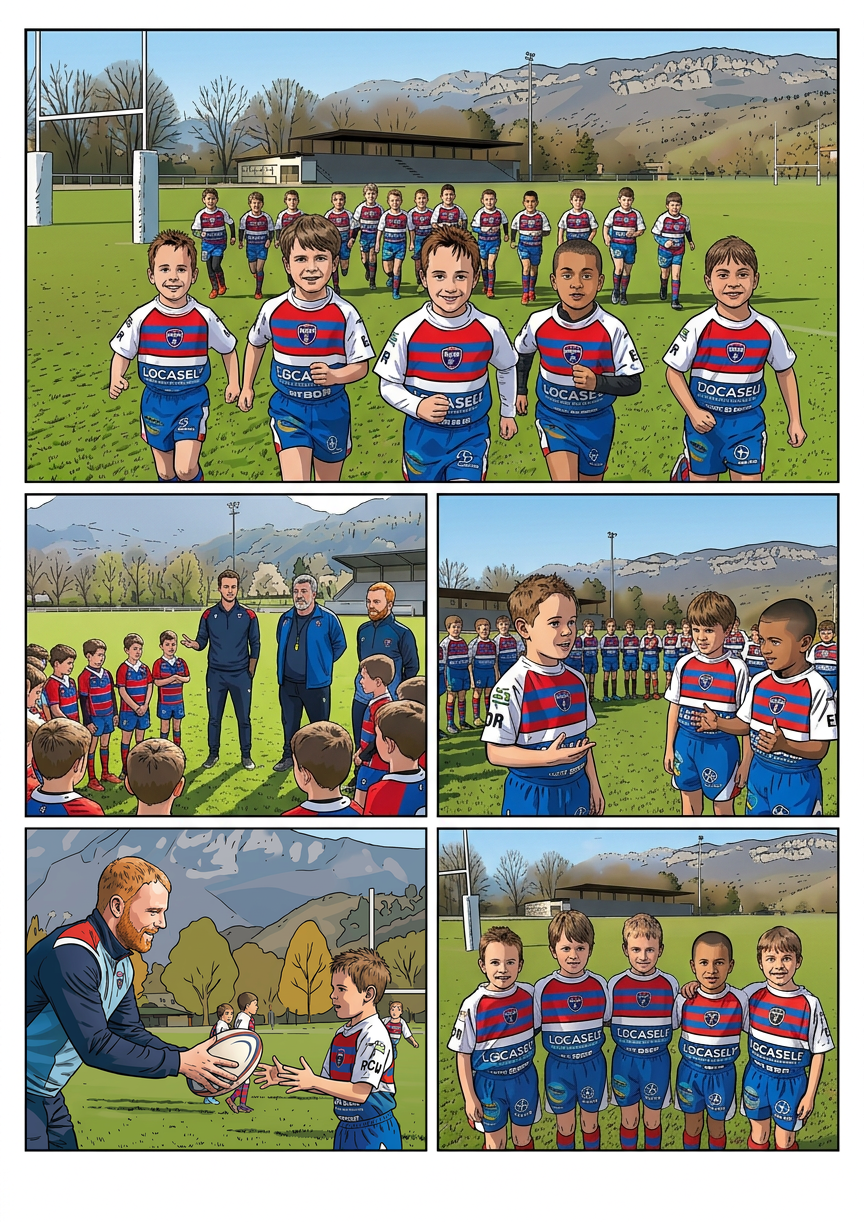
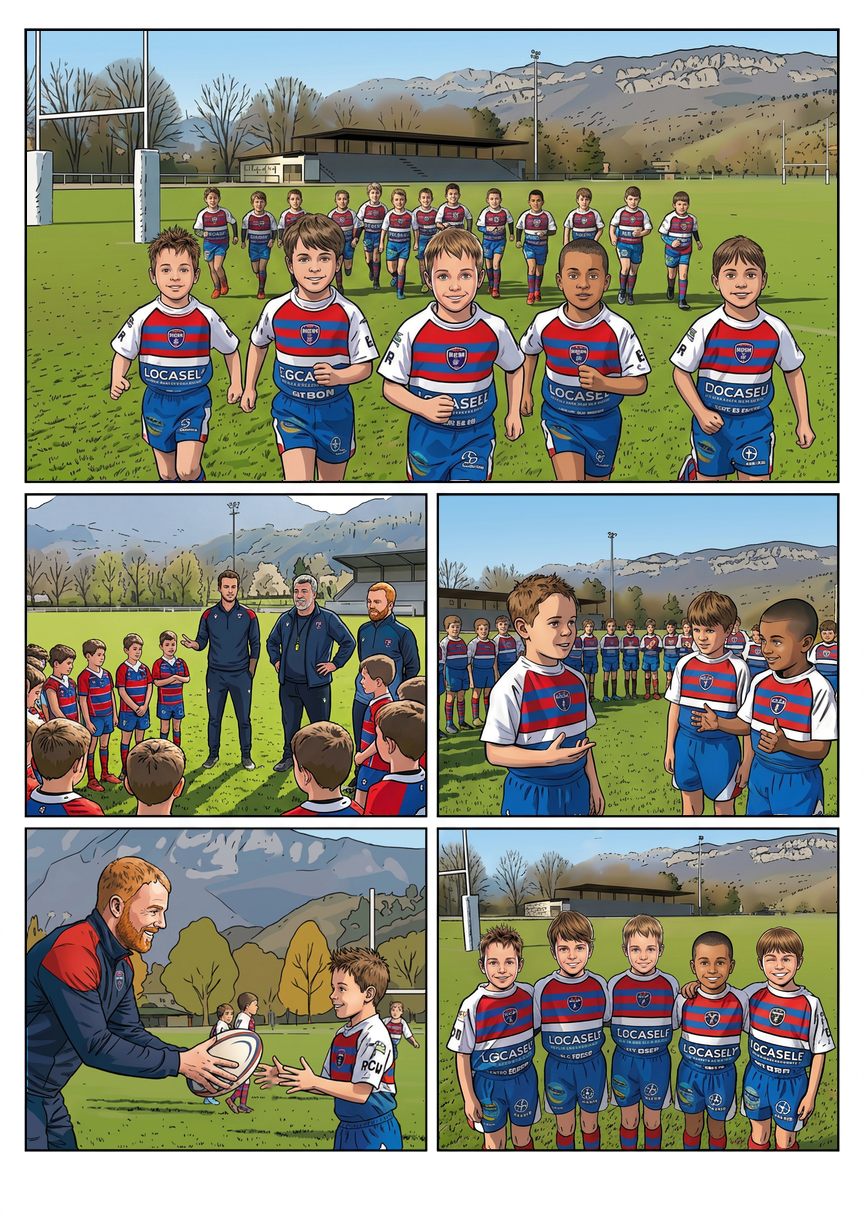
Reprendre les cinq cases printanières de la planche 22

diff --git a/Planches-dessin/validation/REVUE-COUVERTURE.md b/Planches-dessin/validation/REVUE-COUVERTURE.md
@@ -21,13 +21,13 @@ Les huit recadrages exacts sont dans `revue-couverture/<Prénom>-couverture.png`
 |---|---:|
 | Planches vues en ensemble | 30 |
 | Vignettes réellement inventoriées | 153 |
-| Premières reprises intégrées, encore à relire | 110 |
+| Premières reprises intégrées, encore à relire | 115 |
 | Corrections seulement partielles, à poursuivre | 0 |
 | Contrôles sans retouche, encore à relire | 1 |
-| Autres vignettes restant à contrôler individuellement | 42 |
+| Autres vignettes restant à contrôler individuellement | 37 |
 | Validations définitives de style et ressemblance | **0** |
 
-Les 110 vignettes ayant reçu une intervention ne sont pas 110 vignettes définitivement conformes. Le reste de la revue demandée n’est pas terminé. Le manifeste `REVUE-COUVERTURE.json` conserve une entrée et un état explicite pour chacune des 153 vignettes.
+Les 115 vignettes ayant reçu une intervention ne sont pas 115 vignettes définitivement conformes. Le reste de la revue demandée n’est pas terminé. Le manifeste `REVUE-COUVERTURE.json` conserve une entrée et un état explicite pour chacune des 153 vignettes.
 
 ## Première livraison : 26/3 et 26/6
 
@@ -428,6 +428,26 @@ Preuves : `revue-couverture/lot-y/21-AVANT-APRES.jpg` et cinq masques des intér
 **Réserves de relecture transversale :** ressemblance et âge sous les bonnets, silhouettes des cinq modèles dans les plans moyens, cohérence des bandes de maillot et des sponsors/écussons aux petites lettres variables ; anatomie des deux prises de relevage (quatre mains), des poignées de main et du bras de Julien occulté derrière Flavien ; finesse du fondu lumineux mental par rapport à l'encrage des autres cases. La buée est atmosphérique, pas un emplacement de dialogue. Les inscriptions internes aux maillots restent un chantier graphique d'harmonisation, pas une validation du lettrage généré.
 
 **Bilan courant : 110 premières reprises, 0 correction partielle, 1 contrôle sans retouche, 42 vignettes encore à examiner individuellement ; 0 validation définitive sur 153. Prochaine planche : 22.** Aucun mot de pensée, bulle, dialogue, onomatopée ou encadré ajouté ; la dernière phase de textes reste différée jusqu'à la validation graphique individuelle et transversale complète.
+
+## Vingt-quatrième livraison : les cinq cases de la planche 22
+
+Passage au soleil de mars à La Motte-Servolex (« Finis les bonnets et les gants : place à la vitesse ! ») : contrôle des cinq vignettes avec la couverture pour unique référence d'identité et de style, en appui sur le scénario et la planche réaliste.
+
+**22/1 :** Bandeau panoramique de mars à La Motte-Servolex : reprise des cinq garçons au premier plan (Léon, Lyssandro, Ayden, Nolann au teint mat, Milo) et suppression des sous-pulls d'hiver à manches longues (blanc sur Ayden, noir sur Nolann) ainsi que du legging noir du coureur d'arrière-plan à gauche et des manches longues résiduelles de plusieurs coureurs d'arrière-plan, conformément au retour du printemps sans bonnets ni gants.
+
+**22/2 :** Causerie au centre du terrain : reprise de Flavien (brun, barbe légère, survêtement marine à épaules rouges), Julien (cheveux gris, moustache et petit bouc gris au menton, veste ramenée du bleu roi au bleu marine canonique avec sifflet jaune) et Kilian (cheveux et barbe rousse, veste marine) face au demi-cercle des joueurs U8 en manches courtes.
+
+**22/3 :** Prise de parole devant le groupe : reprise de Léon à gauche (cheveux châtains en épis, expression calme et assurée), complété à droite par Lyssandro (mèche châtain) et Nolann (teint mat, cheveux courts foncés) en maillots manches courtes du RCM devant la ligne des coéquipiers.
+
+**22/4 :** Relance de l'atelier : reprise de Kilian de profil à gauche (cheveux et barbe rousse, grand sourire, haut de survêtement ramené au bleu marine à épaule rouge au lieu du bleu ciel) lançant le ballon à Léon à droite en maillot manches courtes ; nettoyage d'une silhouette grise parasite à l'arrière-plan.
+
+**22/5 :** Ligne des cinq copains (Léon, Lyssandro, Ayden, Nolann au teint mat, Milo) : visages adoucis et rapprochés de la couverture, chevelure châtain clair d'Ayden, teint mat de Nolann, et clin d'œil complice de Milo à droite (un œil fermé, un œil ouvert).
+
+Preuves : `revue-couverture/lot-z/22-AVANT-APRES.jpg` et cinq masques des intérieurs de cases. Cadres noirs et gouttières hors masques intégralement préservés.
+
+**Réserves de relecture transversale :** harmonisation fine des visages de face dans 22/1 et 22/5 (notamment la micro-frange frontale de Nolann par rapport à sa coupe très courte actuelle et l'homogénéité des traits avec la couverture), nettoyage de quelques manches sombres résiduelles sur de petites silhouettes d'arrière-plan dans 22/1 et 22/2, et cohérence des écussons/inscriptions de maillots (`LOCASELF` déformé par la génération).
+
+**Bilan courant : 115 premières reprises, 0 correction partielle, 1 contrôle sans retouche, 37 vignettes encore à examiner individuellement ; 0 validation définitive sur 153. Prochaine planche : 23.** Aucune bulle ni texte ajouté.
 
 ## Contrôles techniques et audits historiques
 

diff --git a/Planches-dessin/SUIVI-STYLE.md b/Planches-dessin/SUIVI-STYLE.md
@@ -2,7 +2,7 @@
 
 **La couverture `00-couverture-marvel.png` est désormais la seule référence de style et d’identité.** La décision utilisateur remplace la priorité V2 décrite dans l’historique ci-dessous. La couverture reste inchangée.
 
-Suivi actuel : [`validation/REVUE-COUVERTURE.md`](validation/REVUE-COUVERTURE.md) et son manifeste JSON : 153 vignettes inventoriées, 110 premières reprises, 1 contrôle sans retouche, 0 correction partielle, 42 autres contrôles individuels à faire, aucune validation définitive. Les anciennes approbations ne valent pas conformité au nouveau référentiel. La prise de 18/4 est reprise au lot U ; les raccords de 19/1 sont nettoyés au lot W, puis les cinq cases de 20 reprises au lot X. Planche 21 reprise au lot Y : souvenir mental de Flavien, gestes de réconciliation, visage clair d’Ayden isolé pour éviter sa confusion avec Nolann mat, et geste de Julien sur l’épaule de Flavien. Prochaine planche : 22. Réserves transversales sur contacts de plaquage, âge/traits sous bonnets et conformité des motifs/écussons/sponsors des tenues. Aucune bulle ni texte de dialogue ajouté.
+Suivi actuel : [`validation/REVUE-COUVERTURE.md`](validation/REVUE-COUVERTURE.md) et son manifeste JSON : 153 vignettes inventoriées, 115 premières reprises, 1 contrôle sans retouche, 0 correction partielle, 37 autres contrôles individuels à faire, aucune validation définitive. Les anciennes approbations ne valent pas conformité au nouveau référentiel. La prise de 18/4 est reprise au lot U ; les raccords de 19/1 sont nettoyés au lot W, puis les cinq cases de 20 reprises au lot X. Planche 21 reprise au lot Y : souvenir mental de Flavien, gestes de réconciliation, visage clair d’Ayden isolé pour éviter sa confusion avec Nolann mat, et geste de Julien sur l’épaule de Flavien. Planche 22 reprise au lot Z : retour du printemps en manches courtes (suppression des sous-pulls d’hiver de 22-1), vestes marine des coachs (22-2 et 22-4), prise de parole de Léon/Lyssandro/Nolann (22-3) et clin d’œil complice de Milo (22-5). Prochaine planche : 23. Réserves transversales sur contacts de plaquage, âge/traits sous bonnets et conformité des motifs/écussons/sponsors des tenues. Aucune bulle ni texte de dialogue ajouté.
 
 ---
 
